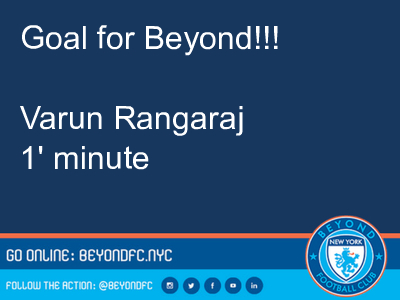
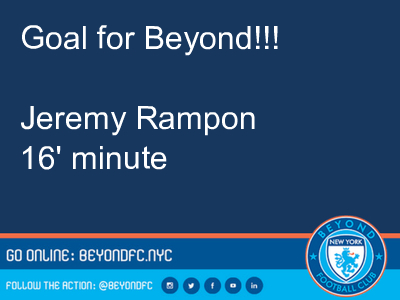
added sequence of tweets functionality to app.js and server.js

Changed region(s): [[0.03, 0.33, 0.66, 0.45], [0.09, 0.48, 0.42, 0.57]]

diff --git a/src/App.js b/src/App.js
@@ -193,17 +193,26 @@ loadTeamsFromServer() {
     updatePlayer(roster, playerGoals.push(this.state.timeLive))
     this.setState({ roster })
 
+    console.log(player, scorer);
+
+    this.addGoalBFC();
+    this.snapGoalsBFC(player, event);
+
     const tweetKey = "playerScored";
     const scorer = `${player.firstName} ${player.lastName}`;
     const scorerHandle = "@twitterHandle"
     const min = (Math.ceil(this.state.timeLive / 60)) + "'";
     const teamBFC = this.state.teamBFC;
     const teamOPP = this.state.teamOPP;
-    this.triggerTweet(tweetKey, teamOPP, scorer, scorerHandle, min, teamBFC);
-    console.log(player, scorer);
 
-    this.addGoalBFC();
-    this.snapGoalsBFC(player, event);
+    setTimeout(() => {
+
+      const beyondScore = this.state.beyondScore;
+      const oppScore = this.state.oppScore;
+
+      this.triggerTweet(tweetKey, min, teamOPP, teamBFC, oppScore, beyondScore, scorer, scorerHandle)
+
+    }, 3000);
   }
 
   handlePlayerAssists = (id) => {
@@ -237,7 +246,7 @@ loadTeamsFromServer() {
       alert("Start the game first!");
     } else if (this.state.currentButtonState === 2){
         alert("Restart game first!");
-      } else if (this.state.currentButtonState === 4){
+      } else if (this.state.currentButtonState === 5){
           alert("Game ended!");
     } else {
         this.setState({ beyondScore: score + 1 })
@@ -256,9 +265,13 @@ loadTeamsFromServer() {
     } else {
         this.setState({ oppScore: score + 1 })
 
-        const tweetKey = "opponentScored"
-        const teamOPP = this.state.teamOPP;
-        this.triggerTweet(tweetKey, teamOPP);
+        // const tweetKey = "opponentScored"
+        // const min = (Math.ceil(this.state.timeLive / 60)) + "'";
+        // const teamBFC = this.state.teamBFC;
+        // const teamOPP = this.state.teamOPP;
+        // const beyondScore = this.state.beyondScore;
+        // const oppScore = this.state.oppScore;
+        // this.triggerTweet(tweetKey, min, teamOPP, teamBFC, oppScore, beyondScore);
 
         this.snapGoalsOPP();
       }
@@ -270,12 +283,11 @@ loadTeamsFromServer() {
 // const urlParams = new URLSearchParams(window.location.search);
 
 // const tweet = urlParams.get('tweet') || 'The opponent has scored a goal!';
-triggerTweet(tweetKey, teamOPP, scorer, scorerHandle, min, teamBFC) {
+triggerTweet(tweetKey, min, teamOPP, teamBFC, oppScore, beyondScore, scorer, scorerHandle) {
 
   // const tweet = `${this.state.teamOPP} has scored a goal!`;
-  const tweet = Tweets(tweetKey, teamOPP, scorer, scorerHandle, min, teamBFC);
-  const jimpData = {tweetKey, teamOPP, scorer, scorerHandle, min, teamBFC}
-  const imagePath = './public/field.png'
+  const tweet = Tweets(tweetKey, min, teamOPP, teamBFC, oppScore, beyondScore, scorer, scorerHandle);
+  const jimpData = {tweetKey, min, teamOPP, teamBFC, oppScore, beyondScore, scorer, scorerHandle}
 
   // const backend = 'https://nodejavascript.herokuapp.com';
   const backend = 'http://localhost:3100';
@@ -288,7 +300,7 @@ triggerTweet(tweetKey, teamOPP, scorer, scorerHandle, min, teamBFC) {
       'Content-Type': 'application/json'
     }),
 
-    body: JSON.stringify({ tweet, imagePath, jimpData })
+    body: JSON.stringify({ tweet, jimpData })
   }).then(response => response.json()).then((data) => {
     console.log({ data });
   });
@@ -299,9 +311,9 @@ triggerTweet(tweetKey, teamOPP, scorer, scorerHandle, min, teamBFC) {
 ///////////// end ////////////////////
 
 
-
   startStopMatch(e){
     var buttonStateCounter = this.state.currentButtonState;
+
     if (this.state.clockState === false){
       this.setState({clockState: true, currentButtonState: buttonStateCounter + 1});
       timer = setInterval(()=>{this.setState({timeLive: this.state.timeLive+1})},1000);
@@ -322,7 +334,31 @@ triggerTweet(tweetKey, teamOPP, scorer, scorerHandle, min, teamBFC) {
       );
       this.setState({ lister: arrayTimerState })
     }
+
+    if (buttonStateCounter < 4) {
+      var tweetKey = "";
+
+      if (buttonStateCounter === 0) {
+        tweetKey = "gameStarted"
+      } else if (buttonStateCounter === 1) {
+        tweetKey = "halfTime"
+      } else if (buttonStateCounter === 2) {
+        tweetKey = "secondHalf"
+      } else if (buttonStateCounter === 3) {
+        tweetKey = "finalScore"
+      }
+
+      const min = (Math.ceil(this.state.timeLive / 60)) + "'";
+      const teamBFC = this.state.teamBFC;
+      const teamOPP = this.state.teamOPP;
+      const beyondScore = this.state.beyondScore;
+      const oppScore = this.state.oppScore;
+
+      this.triggerTweet(tweetKey, min, teamOPP, teamBFC, oppScore, beyondScore);
+    }
+
     snapTimerState();
+
   }
 
   fastForward(e){

diff --git a/server.js b/server.js
@@ -82,24 +82,73 @@ app.post('/api/tweet', (req, res) => {
   console.log({ origin: req.headers, body: req.body });
 
   // create jimp image
-  const savedImagePath = "./public/BFCLive_template_new.jpg";
   const jimpData = req.body.jimpData;
+  const tweetKey = jimpData.tweetKey;
   const scorer = jimpData.scorer;
   const min = jimpData.min;
   const teamBFC = jimpData.teamBFC;
-  const headline = `Goal for Beyond!!!`
+  const teamOPP = jimpData.teamOPP;
+  const oppScore = jimpData.oppScore;
+  const beyondScore = jimpData.beyondScore;
 
-  Jimp.read("./public/BFCLive_template.png", function (err, img) {
+
+  const jimpText = {
+    playerScored: {
+      headline: "Goal for Beyond!!!",
+      subHeadline: scorer,
+      text: `${min} minute`,
+      templateImage: "./public/BFCLive_score_template.png"
+    },
+    gameStarted: {
+      headline: "Game on!",
+      subHeadline: `${teamBFC} vs`,
+      text: `${teamOPP}`,
+      templateImage: "./public/BFCLive_events_template.png"
+    },
+    halfTime: {
+      headline: `${beyondScore} : ${oppScore} at halftime`,
+      subHeadline: ``,
+      text: ``,
+      templateImage: "./public/BFCLive_events_template.png"
+    },
+    secondHalf: {
+      headline: `Second half is underway`,
+      subHeadline: `${teamBFC} ${beyondScore}`,
+      text: `${teamOPP} ${oppScore}`,
+      templateImage: "./public/BFCLive_events_template.png"
+    },
+    finalScore: {
+      headline: "Game ended",
+      subHeadline: `${teamBFC} ${beyondScore}`,
+      text: `${teamOPP} ${oppScore}`,
+      templateImage: "./public/BFCLive_events_template.png"
+    }
+  };
+
+  const headline = jimpText[tweetKey].headline;
+  const subHeadline = jimpText[tweetKey].subHeadline;
+  const text = jimpText[tweetKey].text;
+
+  var date = new Date();
+  var timestamp = date.getTime();
+
+  const templateImage = jimpText[tweetKey].templateImage;
+  const savedImagePath = `./public/jimps/BFCLive_${timestamp}.jpg`;
+
+
+
+  Jimp.read(templateImage, function (err, img) {
       if (err) throw err;
       Jimp.loadFont( Jimp.FONT_SANS_32_WHITE ).then(function (font) { // load font from .fnt file
       img.print(font, 20, 20, headline)
-      img.print(font, 20, 100, scorer)
-      img.print(font, 20, 140, `${min} minute`)
+      img.print(font, 20, 100, subHeadline)
+      img.print(font, 20, 140, text)
       img.scaleToFit( 400, 300)
             .write(savedImagePath); // save
       // image.print(font, x, y, str, width); // print a message on an image with text wrapped at width
   });
   });
+
 
   setTimeout(() => {
 

diff --git a/src/data/tweets.js b/src/data/tweets.js
@@ -1,7 +1,11 @@
 
 
-export const Tweets = (tweetKey, teamOPP, scorer, scorerHandle, min, teamBFC) => ({
-    opponentScored: `${teamOPP} scored a goal. More details to follow...`,
-    BFCTeamScored: `Beyond F.C. scores again.`,
-    playerScored: `${scorer} ${scorerHandle} scores for ${teamBFC} against ${teamOPP} in the ${min} min of the game.`
-  }[tweetKey]);
+export const Tweets = (tweetKey, min, teamOPP, teamBFC, oppScore, beyondScore, scorer, scorerHandle) => ({
+  gameStarted: `${teamBFC} vs ${teamOPP} is underway. #GoBeyond`,
+  halfTime: `It's halftime in NYC: ${teamBFC} ${beyondScore} : ${oppScore} ${teamOPP}`,
+  secondHalf: `And we're back! ${teamBFC} ${beyondScore} : ${oppScore} ${teamOPP}`,
+  finalScore: `Final score ${teamBFC} ${beyondScore} : ${oppScore} ${teamOPP}`,
+  opponentScored: `${teamOPP} scored in the ${min} min. ${teamBFC} ${beyondScore} : ${oppScore} ${teamOPP}`,
+  BFCTeamScored: `Beyond F.C. scores again.`,
+  playerScored: `${scorer} scores for ${teamBFC} against ${teamOPP} in the ${min} min of the game. ${teamBFC} ${beyondScore} : ${oppScore} ${teamOPP}`
+}[tweetKey]);
